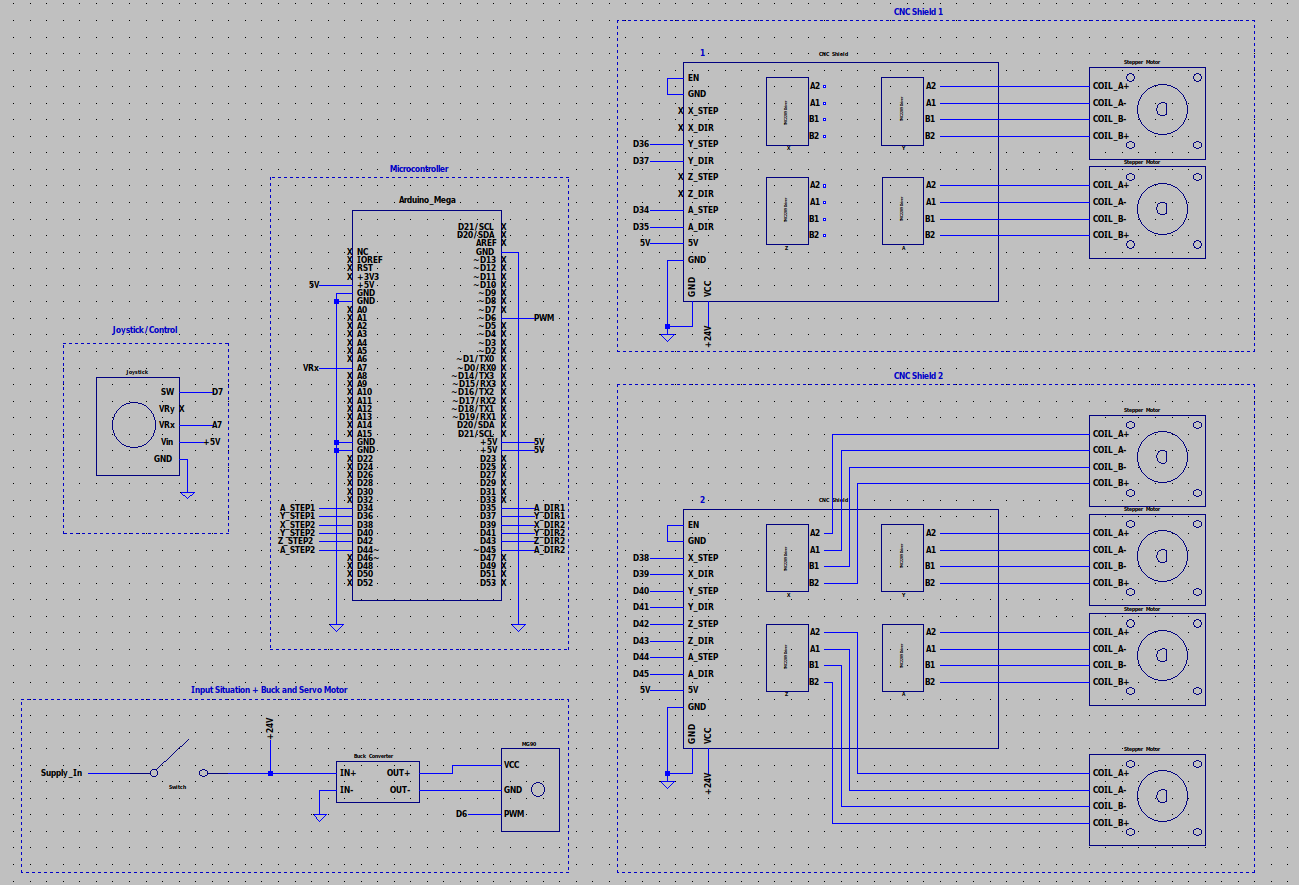
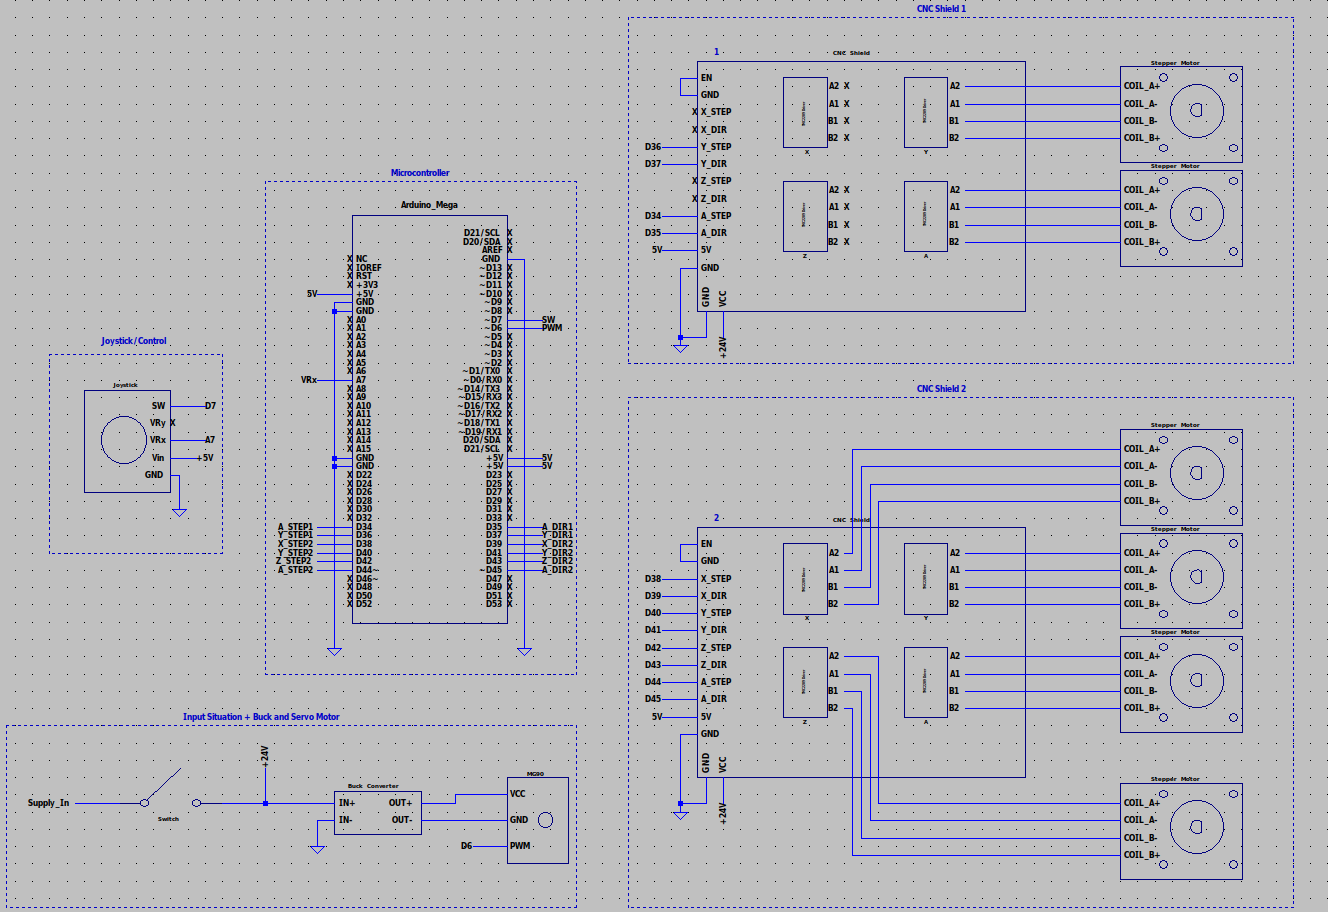
updated README and Ltspice file

diff --git a/README.md b/README.md
@@ -124,13 +124,13 @@ The software implementation introduces two independent control modes:
 
 Manual mode uses a joystick with three inputs:
 
-- Vx  
-- Vy  
+- VRx  
+- VRy  
 - Sw  
 
-Only Vx and Sw are used in this implementation.
+Only VRx and Sw are used in this implementation.
 
-- Vx controls forward and reverse movement of the currently selected motor.  
+- VRx controls forward and reverse movement of the currently selected motor.  
 - Sw cycles through available motors.  
 
 Serial Monitor input is also supported and recommended for clarity, as it displays which motor is currently selected.
@@ -139,8 +139,8 @@ Serial Monitor input is also supported and recommended for clarity, as it displa
 
 | Input | Function |
 |--------|----------|
-| Vx (positive) | Move selected motor forward |
-| Vx (negative) | Move selected motor backward |
+| VRx (positive) | Move selected motor forward |
+| VRx (negative) | Move selected motor backward |
 | Sw | Cycle to next motor |
 | Serial input | Manual motor selection / debugging |
 
